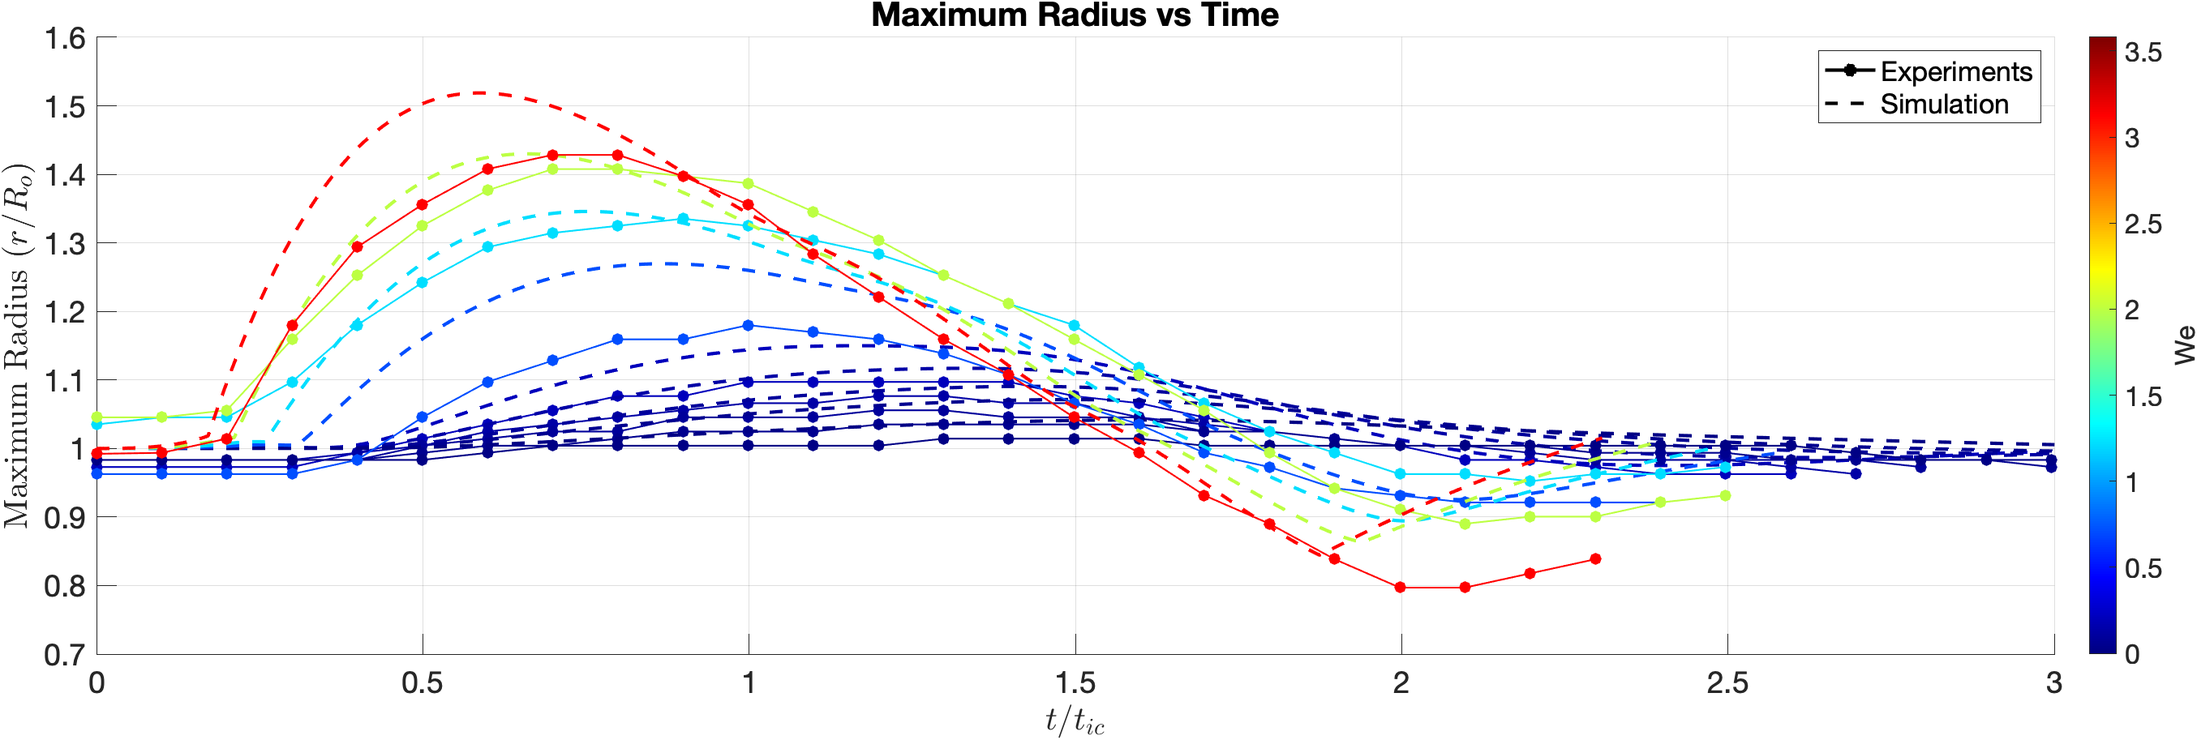
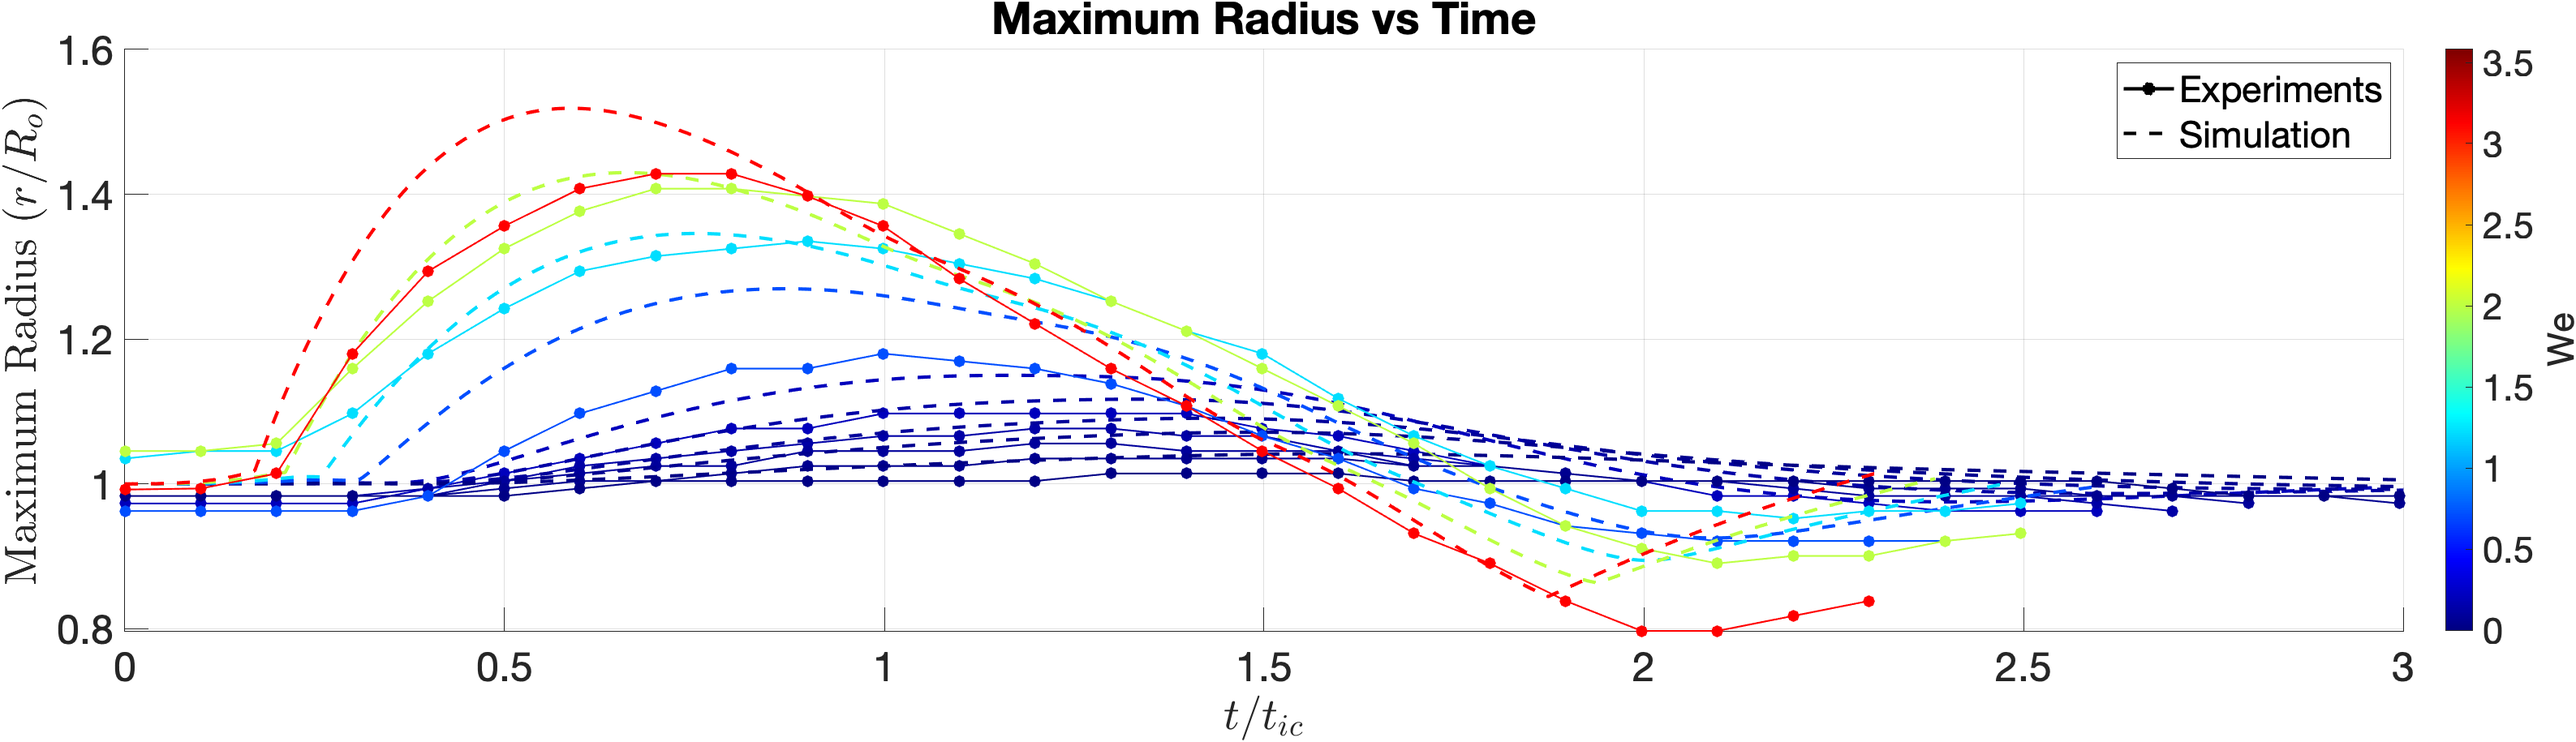
updated max radius plot

diff --git a/matlab/1_code/contact_radius_max_width_plotter.m b/matlab/1_code/contact_radius_max_width_plotter.m
@@ -126,7 +126,7 @@ cb = colorbar;  % Show the color scale
 caxis([0 3.58]);
 ylabel(cb, 'We');
 xlim([0 3]);
-set(gca, 'FontSize', 18);
+set(gca, 'FontSize', 24);
 h1 = plot(NaN, NaN, 'ko-', 'MarkerFaceColor', 'k', 'LineWidth', 2);  % Dummy plot for first legend entry
 h2 = plot(NaN, NaN, 'k--', 'LineWidth', 2);  % Dummy plot for second legend entry
 legend([h1, h2], 'Experiments', 'Simulation')
